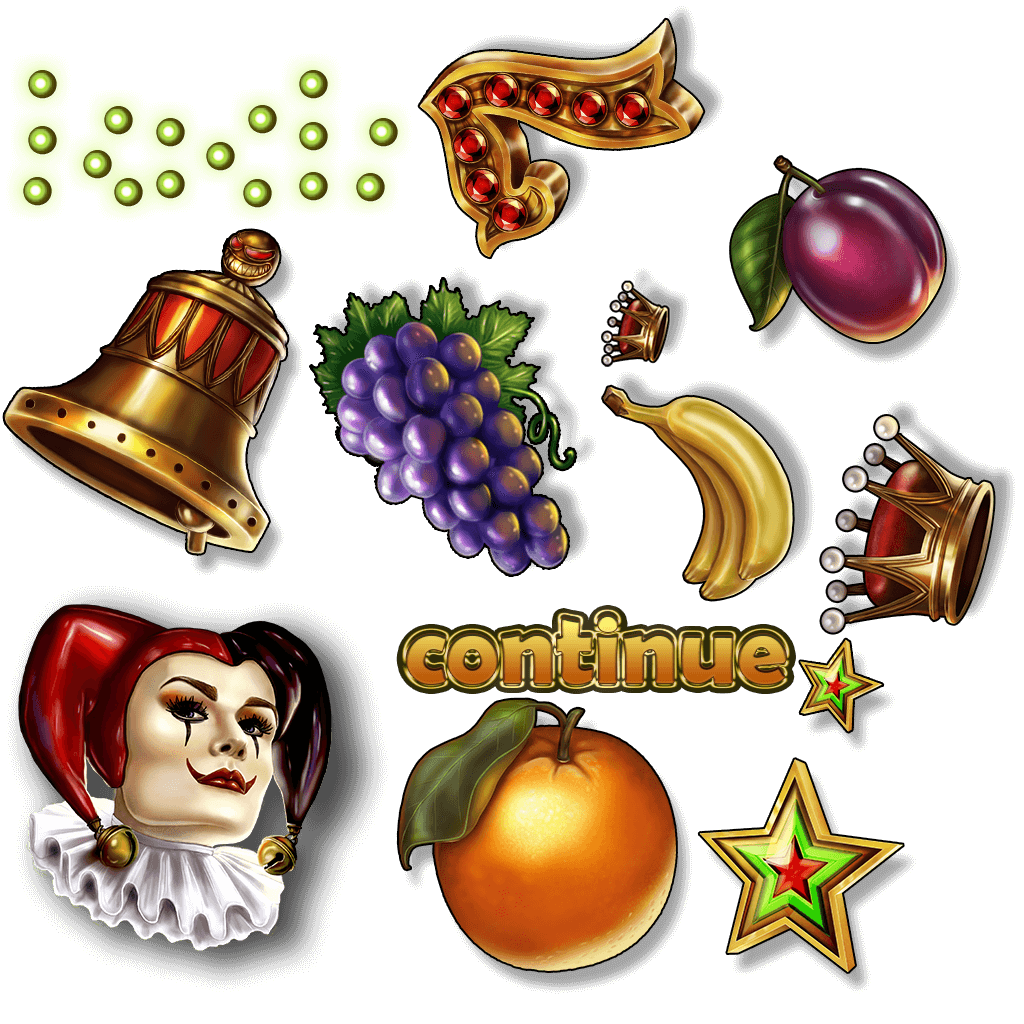
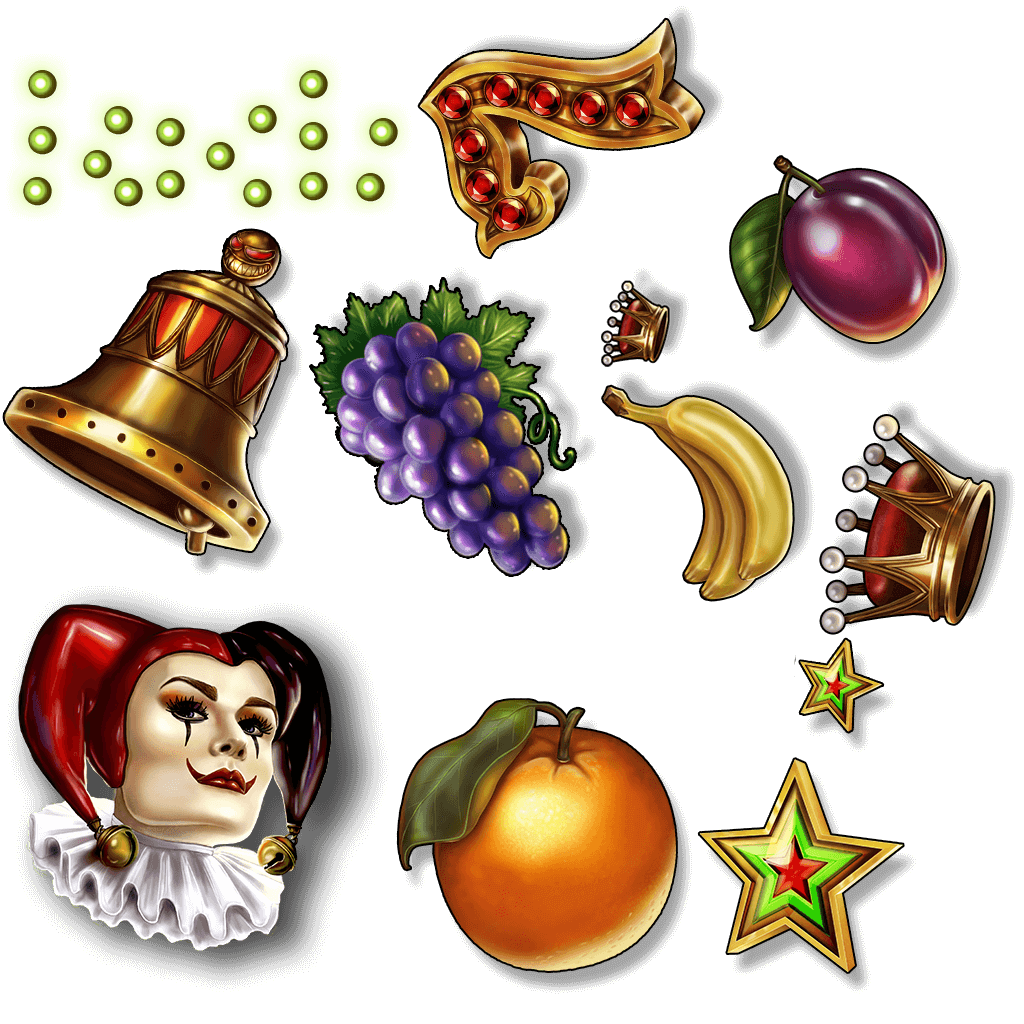
Add play button on init

Changed region(s): [[0.375, 0.5938, 0.7812, 0.6875]]

diff --git a/markup/modules/States/Init/InitView.js b/markup/modules/States/Init/InitView.js
@@ -24,13 +24,13 @@ export let view = (() => {
 
     function drawPlay() {
         const game = model.el('game');
-        let initPlay = game.add.sprite(game.world.centerX, game.height * 0.8, 'text', 'continue.png');
+        let initPlay = game.add.sprite(game.world.centerX, game.height * 0.8, 'play');
         initPlay.anchor.set(0.5);
         initPlay.scale.setTo(0.1, 0.1);
         let initPlayTween = game.add.tween(initPlay.scale).to({x: 1.0, y: 1.0}, 1000, Phaser.Easing.Elastic.Out, true);
         model.el('initPlay', initPlay);
         model.el('initPlayTween', initPlayTween);
-        initPlay.alpha = 0;
+        initPlay.alpha = 1;
         return initPlay;
     }
 

diff --git a/markup/modules/States/Preload/PreloadController.js b/markup/modules/States/Preload/PreloadController.js
@@ -70,6 +70,7 @@ export class Preload {
         game.load.path = `static/img/content/${model.res}/`;
         game.load.image('initBG', 'bg/initBG.jpg');
         game.load.image('logosSmall', 'preloader/logosSmall.png');
+        game.load.image('play', 'text/playText.png');
         game.load.atlasJSONArray('text', 'text/text.png', 'text/text.json');
     }
 
